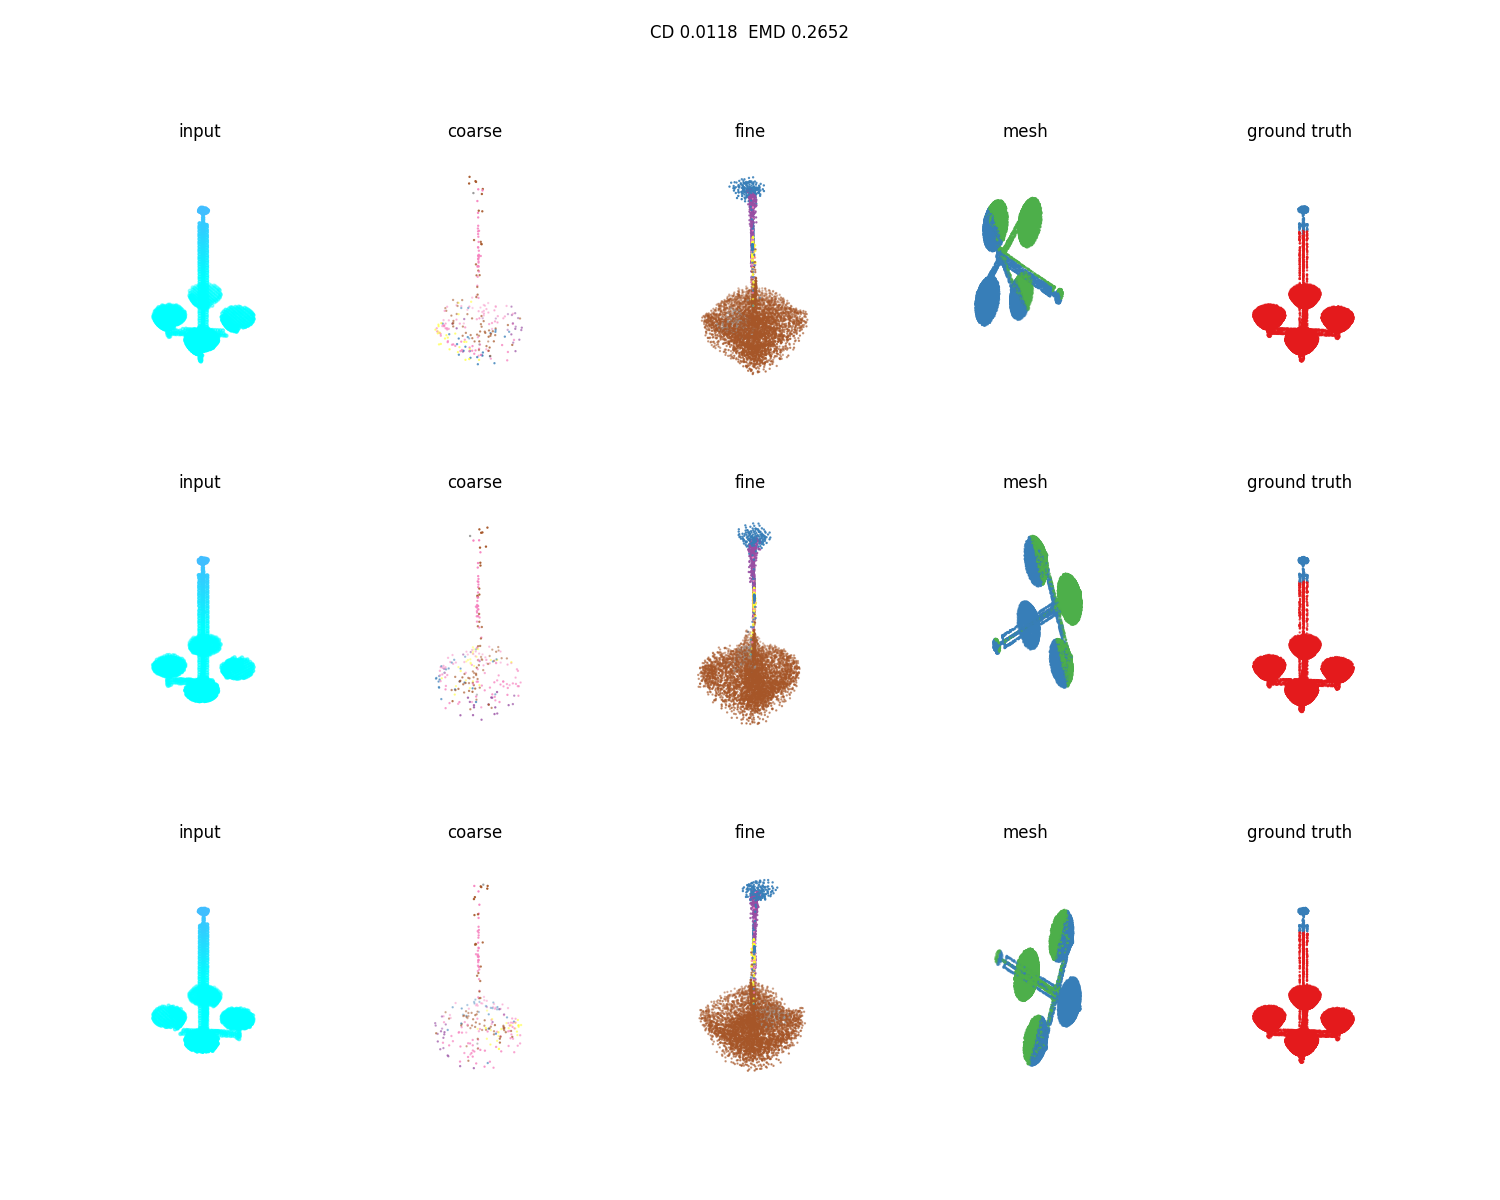
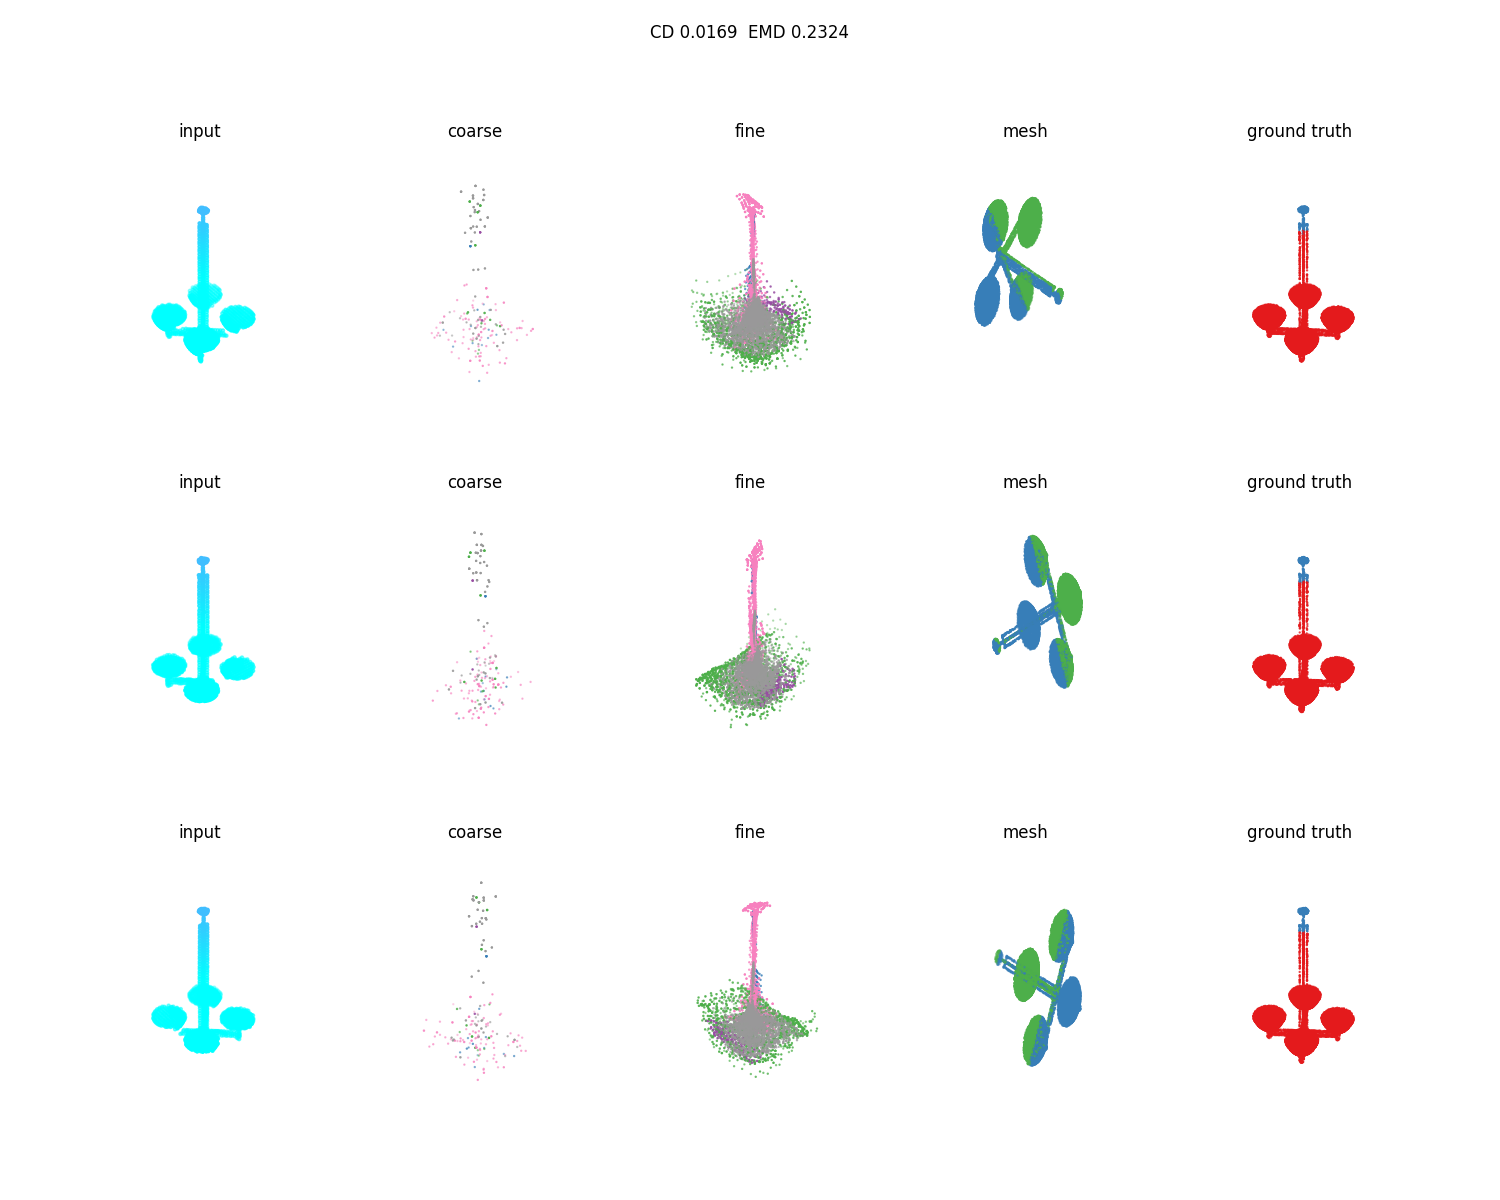
add plots

diff --git a/models/pcn_reg.py b/models/pcn_reg.py
@@ -132,7 +132,7 @@ class Model:
         # entropy += tf.nn.relu(tf.log(self.channels*1.0) + tf.reduce_mean(tf.reduce_sum(p_fine_samp * tf.log(p_fine_samp), [1]), [0]))
         entropy = tf.reduce_mean(tf.nn.softmax_cross_entropy_with_logits(labels=p_can_feat, logits=p_coar_feat))
         loss_coarse = chamfer(coarse[:,:,0:3], gt[:,:,0:3])
-        loss_coarse += chamfer(self.canonical[:,:,0:3], self.gt_can[:,:,0:3])
+        # loss_coarse += chamfer(self.canonical[:,:,0:3], self.gt_can[:,:,0:3])
         """
         _, retb, _, retd = tf_nndistance.nn_distance(coarse[:,:,0:3], gt[:,:,0:3])
         for i in range(np.shape(gt)[0]):

diff --git a/tf_util.py b/tf_util.py
@@ -37,7 +37,7 @@ def mlp_conv_act(inputs, layer_dims, act_dim=8, bn=None, bn_params=None):
     for i, num_out_channel in enumerate(layer_dims[:-1]):
         inputs = tf.contrib.layers.conv1d(
             inputs, num_out_channel,
-            kernel_size=8,
+            kernel_size=1,
             normalizer_fn=bn,
             normalizer_params=bn_params,
             scope='conv_%d' % i)
